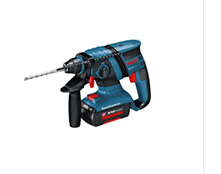
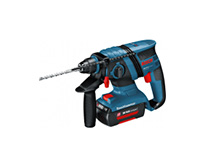
Заново вырезаны картинки товаров
Выбран подходящий размер, в изображение не попала рамка карточки.

Changed region(s): [[0.1101, 0.2096, 0.7706, 0.7784]]

diff --git a/catalog.html b/catalog.html
@@ -175,7 +175,7 @@
           <ul class="catalog-list">
             <li class="catalog-item">
               <h3 class="item-title">Перфоратор BOSCH BFG 3000</h3>
-              <img src="img/bfg-2000.jpg" width="221" height="174" alt="Перфоратор BOSCH - базовая модель">
+              <img src="img/bfg-2000.jpg" width="218" height="167" alt="Перфоратор BOSCH - базовая модель">
               <b class="new-label" hidden>new</b>
               <del class="old-price">22500 Р.</del>
               <span class="actual-price">15500 Р.</span>
@@ -186,7 +186,7 @@
             </li>
             <li class="catalog-item">
               <h3 class="item-title">Перфоратор BOSCH BFG 6000</h3>
-              <img src="img/bfg-6000.jpg" width="221" height="174" alt="Перфоратор - модель BFG 6000">
+              <img src="img/bfg-6000.jpg" width="218" height="167" alt="Перфоратор - модель BFG 6000">
               <b class="new-label" hidden>new</b>
               <del class="old-price">30500 Р.</del>
               <span class="actual-price">25500 Р.</span>
@@ -197,7 +197,7 @@
             </li>
             <li class="catalog-item">
               <h3 class="item-title">Перфоратор BOSCH BFG 2000</h3>
-              <img src="img/bfg-2000.jpg" width="221" height="174" alt="Перфоратор BOSCH - базовая модель">
+              <img src="img/bfg-2000.jpg" width="218" height="167" alt="Перфоратор BOSCH - базовая модель">
               <b class="new-label">new</b>
               <del class="old-price"></del>
               <span class="actual-price">12500 Р.</span>
@@ -208,7 +208,7 @@
             </li>
             <li class="catalog-item">
               <h3 class="item-title">Перфоратор BOSCH BFG 3000</h3>
-              <img src="img/bfg-2000.jpg" width="221" height="174" alt="Перфоратор BOSCH - базовая модель">
+              <img src="img/bfg-2000.jpg" width="218" height="167" alt="Перфоратор BOSCH - базовая модель">
               <b class="new-label" hidden>new</b>
               <del class="old-price">22500 Р.</del>
               <span class="actual-price">15500 Р.</span>
@@ -219,7 +219,7 @@
             </li>
             <li class="catalog-item">
               <h3 class="item-title">Перфоратор BOSCH BFG 6000</h3>
-              <img src="img/bfg-6000.jpg" width="221" height="174" alt="Перфоратор - модель BFG 6000">
+              <img src="img/bfg-6000.jpg" width="218" height="167" alt="Перфоратор - модель BFG 6000">
               <b class="new-label" hidden>new</b>
               <del class="old-price">30500 Р.</del>
               <span class="actual-price">25500 Р.</span>
@@ -230,7 +230,7 @@
             </li>
             <li class="catalog-item">
               <h3 class="item-title">Перфоратор BOSCH BFG 2000</h3>
-              <img src="img/bfg-2000.jpg" width="221" height="174" alt="Перфоратор BOSCH - базовая модель">
+              <img src="img/bfg-2000.jpg" width="218" height="167" alt="Перфоратор BOSCH - базовая модель">
               <b class="new-label">new</b>
               <del class="old-price"></del>
               <span class="actual-price">12500 Р.</span>
@@ -241,7 +241,7 @@
             </li>
              <li class="catalog-item">
               <h3 class="item-title">Перфоратор BOSCH BFG 3000</h3>
-              <img src="img/bfg-2000.jpg" width="221" height="174" alt="Перфоратор BOSCH - базовая модель">
+              <img src="img/bfg-2000.jpg" width="218" height="167" alt="Перфоратор BOSCH - базовая модель">
               <b class="new-label" hidden>new</b>
               <del class="old-price">22500 Р.</del>
               <span class="actual-price">15500 Р.</span>
@@ -252,7 +252,7 @@
             </li>
             <li class="catalog-item">
               <h3 class="item-title">Перфоратор BOSCH BFG 6000</h3>
-              <img src="img/bfg-6000.jpg" width="221" height="174" alt="Перфоратор - модель BFG 6000">
+              <img src="img/bfg-6000.jpg" width="218" height="167" alt="Перфоратор - модель BFG 6000">
               <b class="new-label" hidden>new</b>
               <del class="old-price">30500 Р.</del>
               <span class="actual-price">25500 Р.</span>
@@ -263,7 +263,7 @@
             </li>
             <li class="catalog-item">
               <h3 class="item-title">Перфоратор BOSCH BFG 2000</h3>
-              <img src="img/bfg-2000.jpg" width="221" height="174" alt="Перфоратор BOSCH - базовая модель">
+              <img src="img/bfg-2000.jpg" width="218" height="167" alt="Перфоратор BOSCH - базовая модель">
               <b class="new-label">new</b>
               <del class="old-price"></del>
               <span class="actual-price">12500 Р.</span>

diff --git a/index.html b/index.html
@@ -172,28 +172,28 @@
           <ul class="catalog-list">
             <li class="catalog-item">
                <h3 class="item-title">Перфоратор BOSCH BFG 9000</h3>
-               <img src="img/bfg-9000.jpg" width="221" height="174" alt="Перфоратор - модель BFG 9000">
+               <img src="img/bfg-9000.jpg" width="218" height="167" alt="Перфоратор - модель BFG 9000">
                <b class="new-label" hidden>new</b>
                <del class="old-price">32500 Р.</del>
                <span class="actual-price">25500 Р.</span>
             </li>
             <li class="catalog-item">
                 <h3 class="item-title">Перфоратор BOSCH BFG 3000</h3>
-                <img src="img/bfg-2000.jpg" width="221" height="174" alt="Перфоратор BOSCH - базовая модель">
+                <img src="img/bfg-2000.jpg" width="218" height="167" alt="Перфоратор BOSCH - базовая модель">
                 <b class="new-label" hidden>new</b>
                 <del class="old-price">22500 Р.</del>
                 <span class="actual-price">15500 Р.</span>
             </li>
             <li class="catalog-item">
                 <h3 class="item-title">Перфоратор BOSCH BFG 6000</h3>
-                <img src="img/bfg-6000.jpg" width="221" height="174" alt="Перфоратор - модель BFG 6000">
+                <img src="img/bfg-6000.jpg" width="218" height="167" alt="Перфоратор - модель BFG 6000">
                 <b class="new-label" hidden>new</b>
                 <del class="old-price">30500 Р.</del>
                 <span class="actual-price">25500 Р.</span>
             </li>
             <li class="catalog-item">
                <h3 class="item-title">Перфоратор BOSCH BFG 2000</h3>
-               <img src="img/bfg-2000.jpg" width="221" height="174" alt="Перфоратор BOSCH - базовая модель">
+               <img src="img/bfg-2000.jpg" width="2181" height="167" alt="Перфоратор BOSCH - базовая модель">
                <b class="new-label">new</b>
                <del class="old-price"></del>
                <span class="actual-price">12500 Р.</span>
